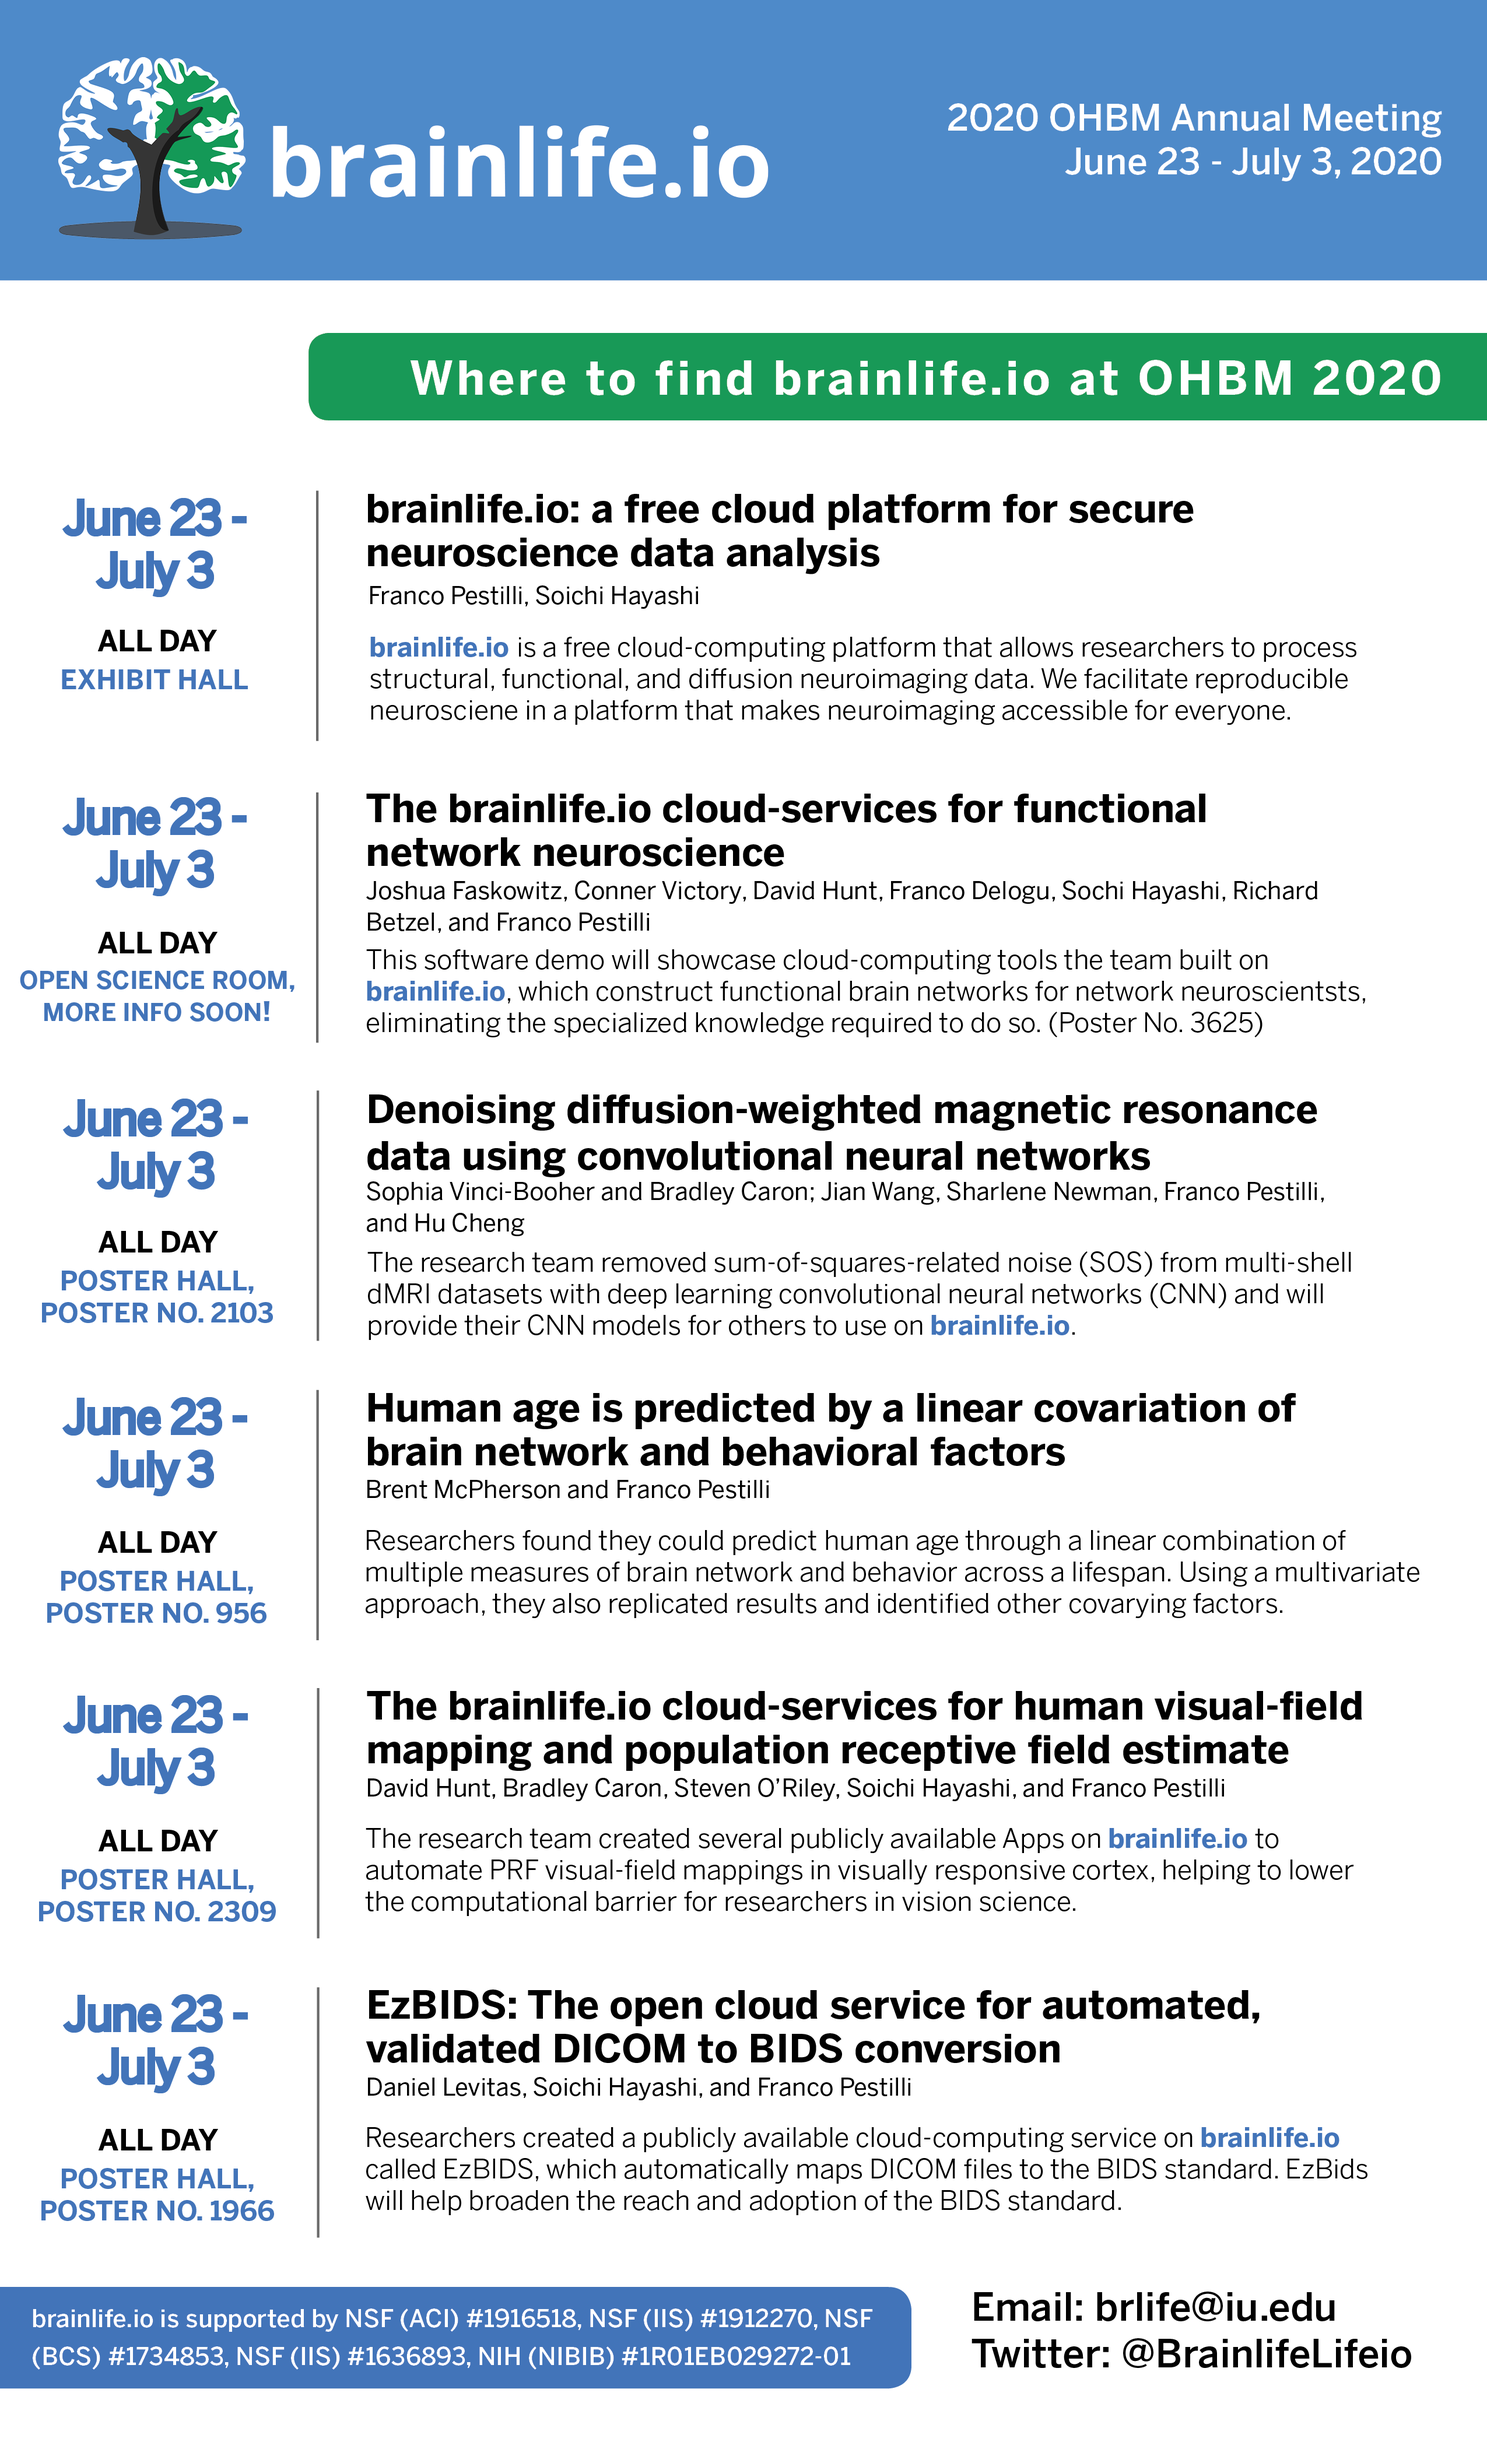
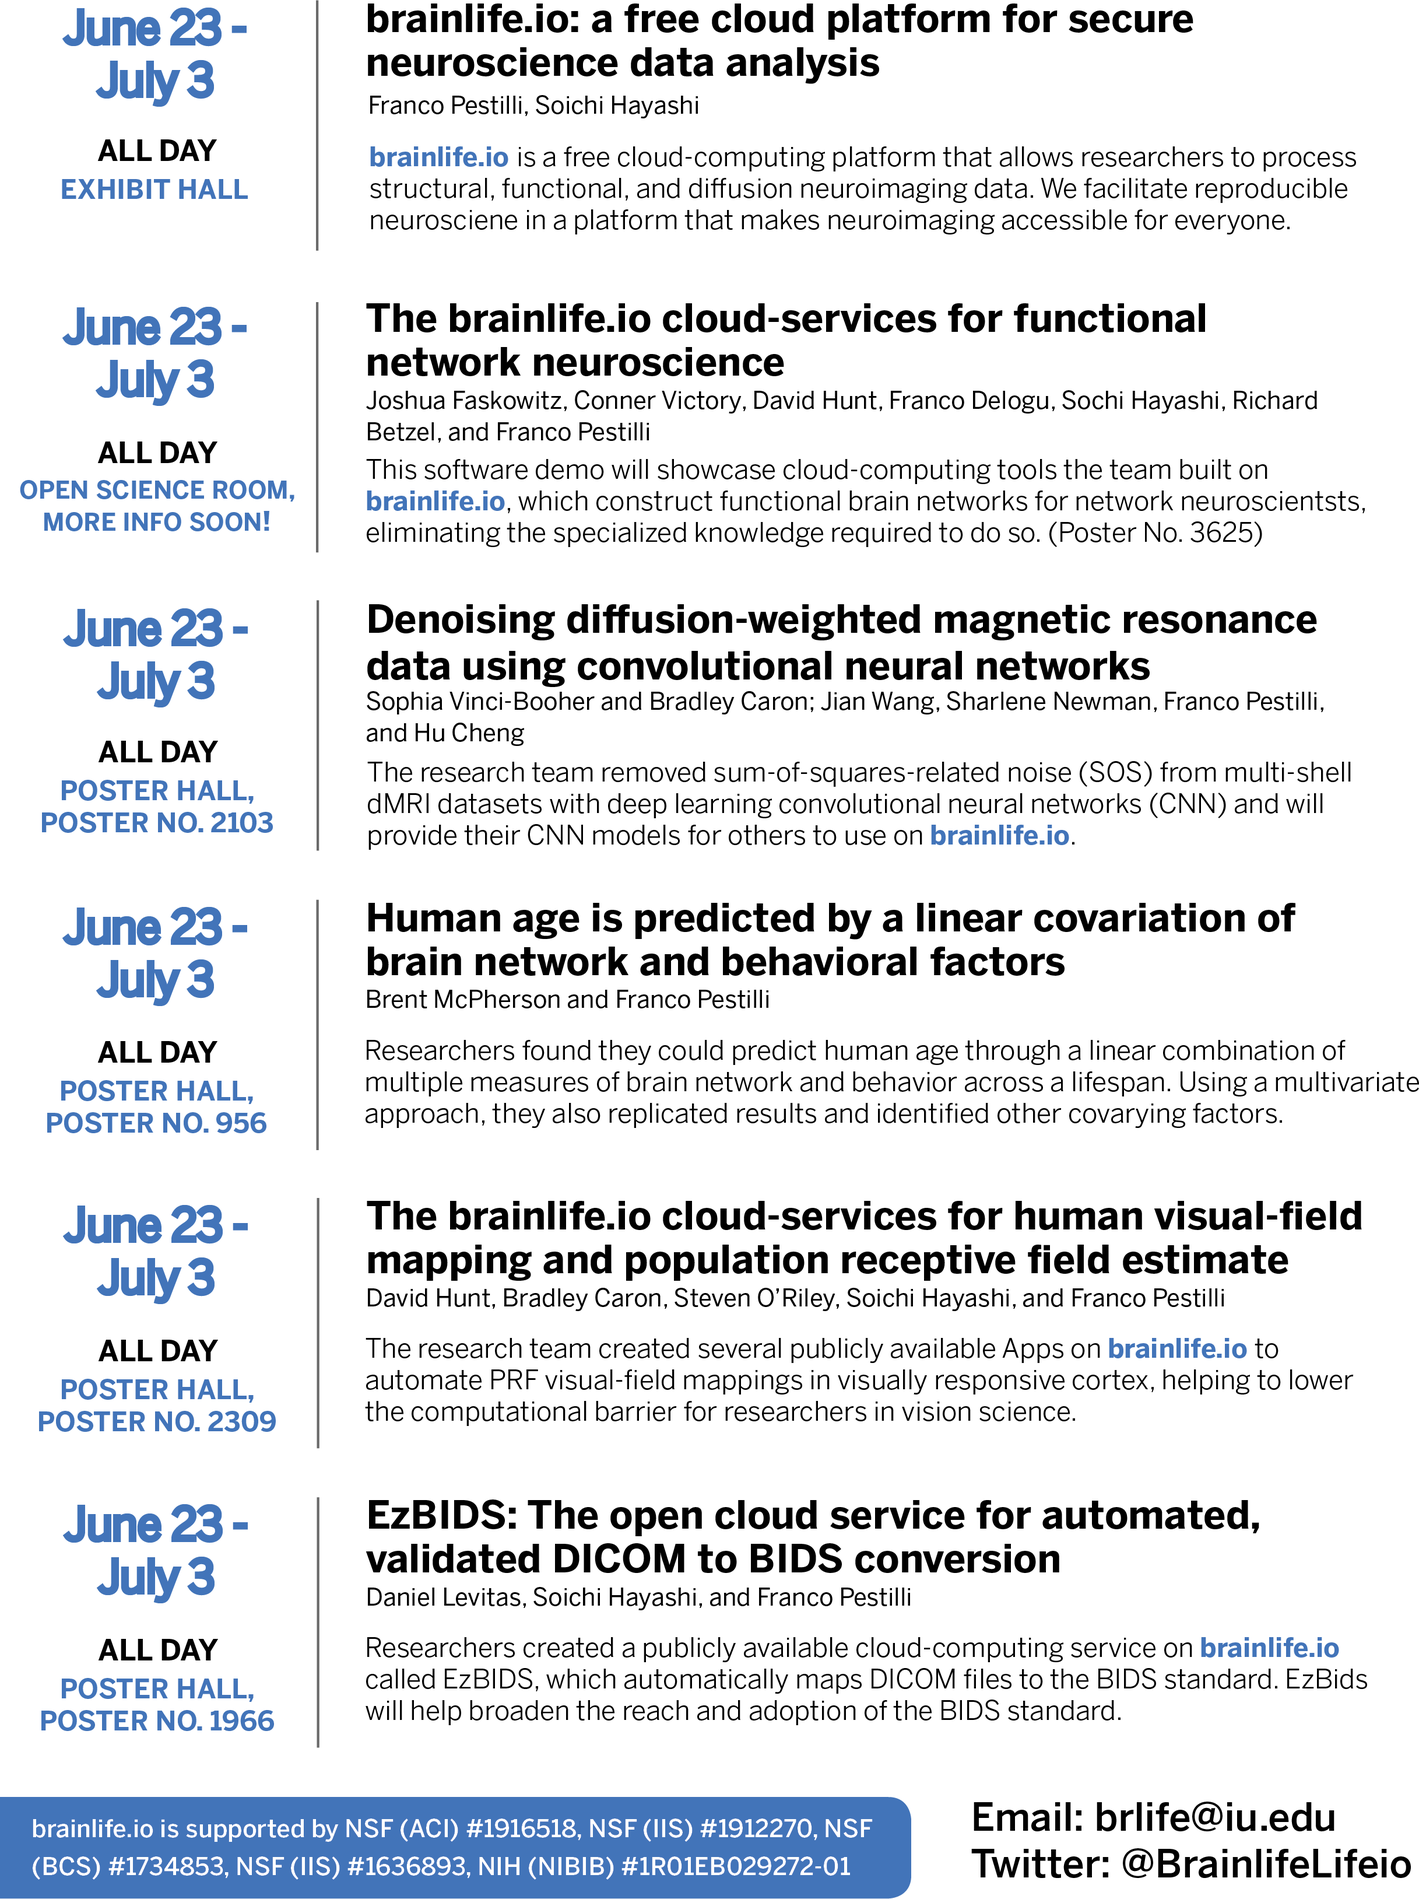
updated ohbm2020 style

diff --git a/_includes/page-footer.html b/_includes/page-footer.html
@@ -42,6 +42,8 @@
             &nbsp;
             <a href="https://github.com/brainlife"><i class="fab fa-github"></i></a>
             &nbsp;
+            <a href="mailto:brlife@iu.edu"><i class="fa fa-envelope"></i></a>
+            &nbsp;
         </td>
     </tr>
     </table>

diff --git a/_pages/team.md b/_pages/team.md
@@ -184,13 +184,13 @@ brainlife.io is actively developed by a group of dedicated neuroscientists and p
             <img src="images/avatar/paolo.jpg"><br>
             <a href="">Paolo Avesani</a><br>
             <span class="title">Neuroinformatics Lab Director</span><br>
-            <span class="location">Fondazione Bruno Kessler, University of Trento</span><br>
+            <span class="location">FBK, University of Trento</span><br>
         </td>
         <td width="33%" class="contact">
             <img src="images/avatar/person.png"><br>
             <a href="mailto:gberto@fbk.eu">Giulia Berto</a><br>
             <span class="title">Graduate Student</span><br>
-            <span class="location">Fondazione Bruno Kessler, University of Trento</span><br>
+            <span class="location">FBK, University of Trento</span><br>
         </td>
         <td width="33%" class="contact">
             <img src="images/avatar/shiloh.jpg"><br>
@@ -209,7 +209,7 @@ brainlife.io is actively developed by a group of dedicated neuroscientists and p
         <td width="33%" class="contact">
             <img src="images/avatar/aman.jpg"><br>
             <a href="aman.arya524@gmail.com">Aman Arya</a><br>
-            <span class="title">Software Engineer</span>
+            <span class="title">Software Engineer</span><br>
             <span class="location">Amazon Inc, Seattle WA</span><br>
         </td>
     </tr>

diff --git a/_pages/ohbm2020.md b/_pages/ohbm2020.md
@@ -1,5 +1,6 @@
 ---
 title: "brainlife.io at OHBM 2020"
+subtitle: "June 23 - July 3, 2020"
 layout: page
 permalink: /ohbm2020
 headerimg: "/images/gears-1311171_1920.jpg"
@@ -9,6 +10,6 @@ headerimg: "/images/gears-1311171_1920.jpg"
 
 <p>Be sure to stop by, or tell a colleague to come learn about the platform! Check out what our team will be presenting in the flyer below, and feel free to <a href="https://brainlife.io/docs/contact/">contact us</a> if you want to learn more about brainlife.io or chat with us at the conference.</P>
 
-<br>
+<h2 style="background-color: #159957; color: white; padding: 8px; margin-bottom: 30px; border-top-right-radius: 10px; border-bottom-right-radius: 10px;">Where to find brainlife.io at OHBM 2020</h2>
 
 ![An image displaying brainlife.io events at OHBM 2020. Contact us for a written list.](images/OHBM_updated.png)
